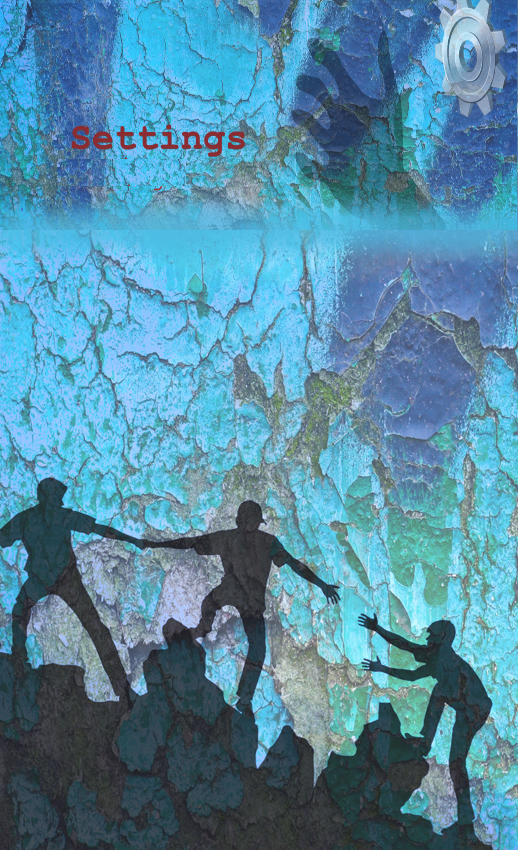
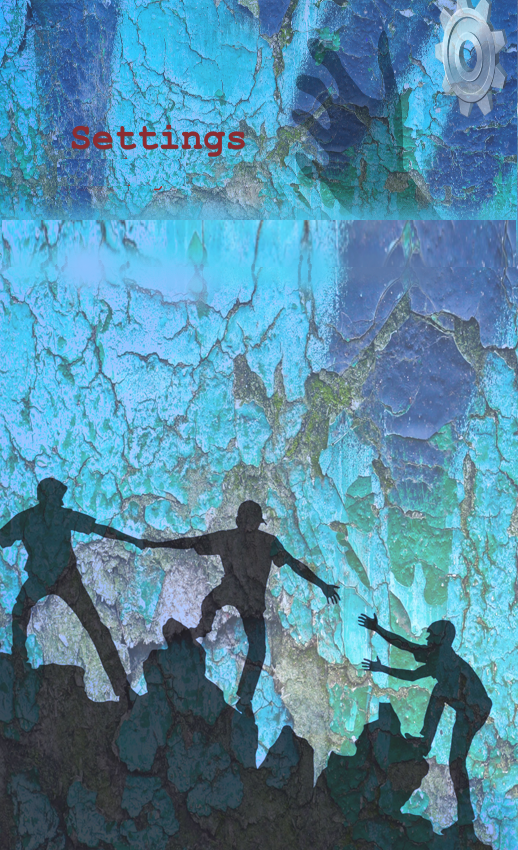
Final Commits

Changed region(s): [[0.0, 0.2447, 1.0, 0.3671]]

diff --git a/src/Cure/client/notes.html b/src/Cure/client/notes.html
@@ -1,8 +1,23 @@
 <template name="Notes">
-    <div class="notes CURE">
-        <header>Notes</header>
+    <div class="notes settings">
+        
         <div class="settingsButtons">
-            <button id="settings" class="btn btn-secondary btn-sm"><span class = 'fas fa-cog'></span> Back</button>
+            
+            
+            <div class="btn-group btn-group-toggle" data-toggle="buttons">
+                <label class="btn btn-secondary active">
+                    <input type="On" name="options" id="option1" autocomplete="off" checked> Turn Notes On
+                </label>
+                <label class="btn btn-secondary">
+                    <input type="Off" name="options" id="option2" autocomplete="off"> Turn Notes off
+                </label>
+            </div>
+            <button id="fonts" class="btn btn-secondary btn-sm"><span class='fas fa-font'></span> Change Fonts</button>
+            <button id="fontsize" class="btn btn-secondary btn-sm"><span class='fas fa-text-height'></span> Change Font Size</button>
+            <button id="layout" class="btn btn-secondary btn-sm"><span class='fas fa-paragraph'></span> Change Layout</button>
+            <button id="settings" class="btn btn-secondary btn-sm"><span class='fas fa-cog'></span> Back</button>
+
+
             
         </div>
     </div>

diff --git a/src/Cure/client/password.html b/src/Cure/client/password.html
@@ -1,7 +1,9 @@
 <template name="Password">
-    <div class="password CURE">
-        <header>Password</header>
+    <div class="password settings">
+        
         <div class="settingsButtons">
+            <button id="password" class="btn btn-secondary btn-sm"><span class = 'fas fa-key'></span> Reset Password</button>
+            <button id="security" class="btn btn-secondary btn-sm"><span class = 'fas fa-shield-alt'></span> Security Questions</button>
             <button id="settings" class="btn btn-secondary btn-sm"><span class = 'fas fa-cog'></span> Back</button>
             
         </div>

diff --git a/src/Cure/client/main.css b/src/Cure/client/main.css
@@ -1158,12 +1158,12 @@ li.private {
 
 .settings {
     background-image: url('/images/Settings_main.png');
-    background-color: #25b6da;
-    background-size: 100%, 130%;
+    background-size: 100% 100%;
     background-repeat: no-repeat;
+    position: fixed;
+    top: 5%;
     width: 100%;
     height: 100%;
-    position: fixed;
     
 }
 
@@ -1284,7 +1284,7 @@ li.private {
     
     .card{
         height: 470px;
-        margin-top: 15%;
+        margin-top: 40%;
         margin-bottom: 5%;
         width: 400px;
         color: white;

diff --git a/src/Cure/client/create.html b/src/Cure/client/create.html
@@ -1,6 +1,6 @@
 <template name="Create">
-    <div class="create CURE"> 
-       <div class="logcontainer cbg">
+    <div class="create settings"> 
+       <div class="logcontainer settings">
           <div class="d-flex justify-content-center h-100">
               <div class="card center">
                   <div class="card-header">

diff --git a/src/Cure/client/profile.html b/src/Cure/client/profile.html
@@ -1,5 +1,5 @@
 <template name="Profile">
-    <div class="profile CURE">
+    <div class="profile settings">
         <header>Profile</header>
         <div class="settingsButtons">
             <button id="settings" class="btn btn-secondary btn-sm"><span class = 'fas fa-cog'></span> Back</button>

diff --git a/src/Cure/client/theme.html b/src/Cure/client/theme.html
@@ -1,5 +1,5 @@
 <template name="Theme">
-    <div class="theme CURE">
+    <div class="theme settings">
         
         <div class="settingsButtons">
             <button id="dark" class="btn btn-secondary btn-sm"><span class = 'fas fa-moon'></span> dark</button>
